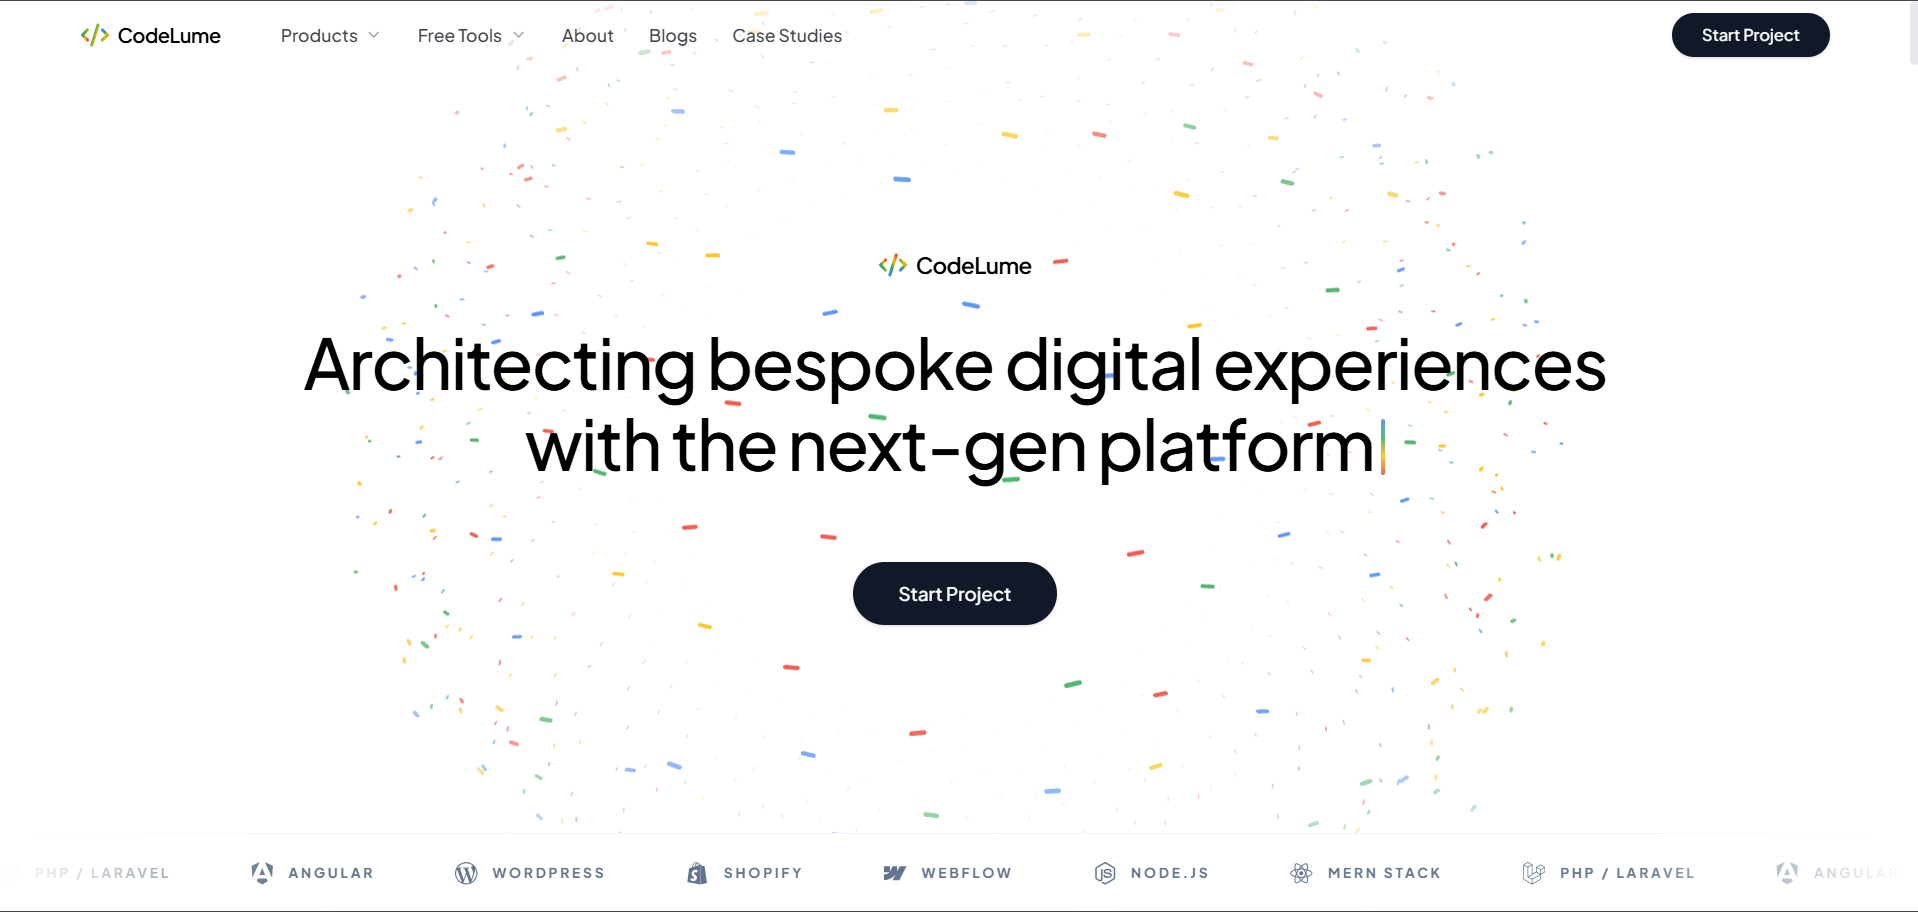
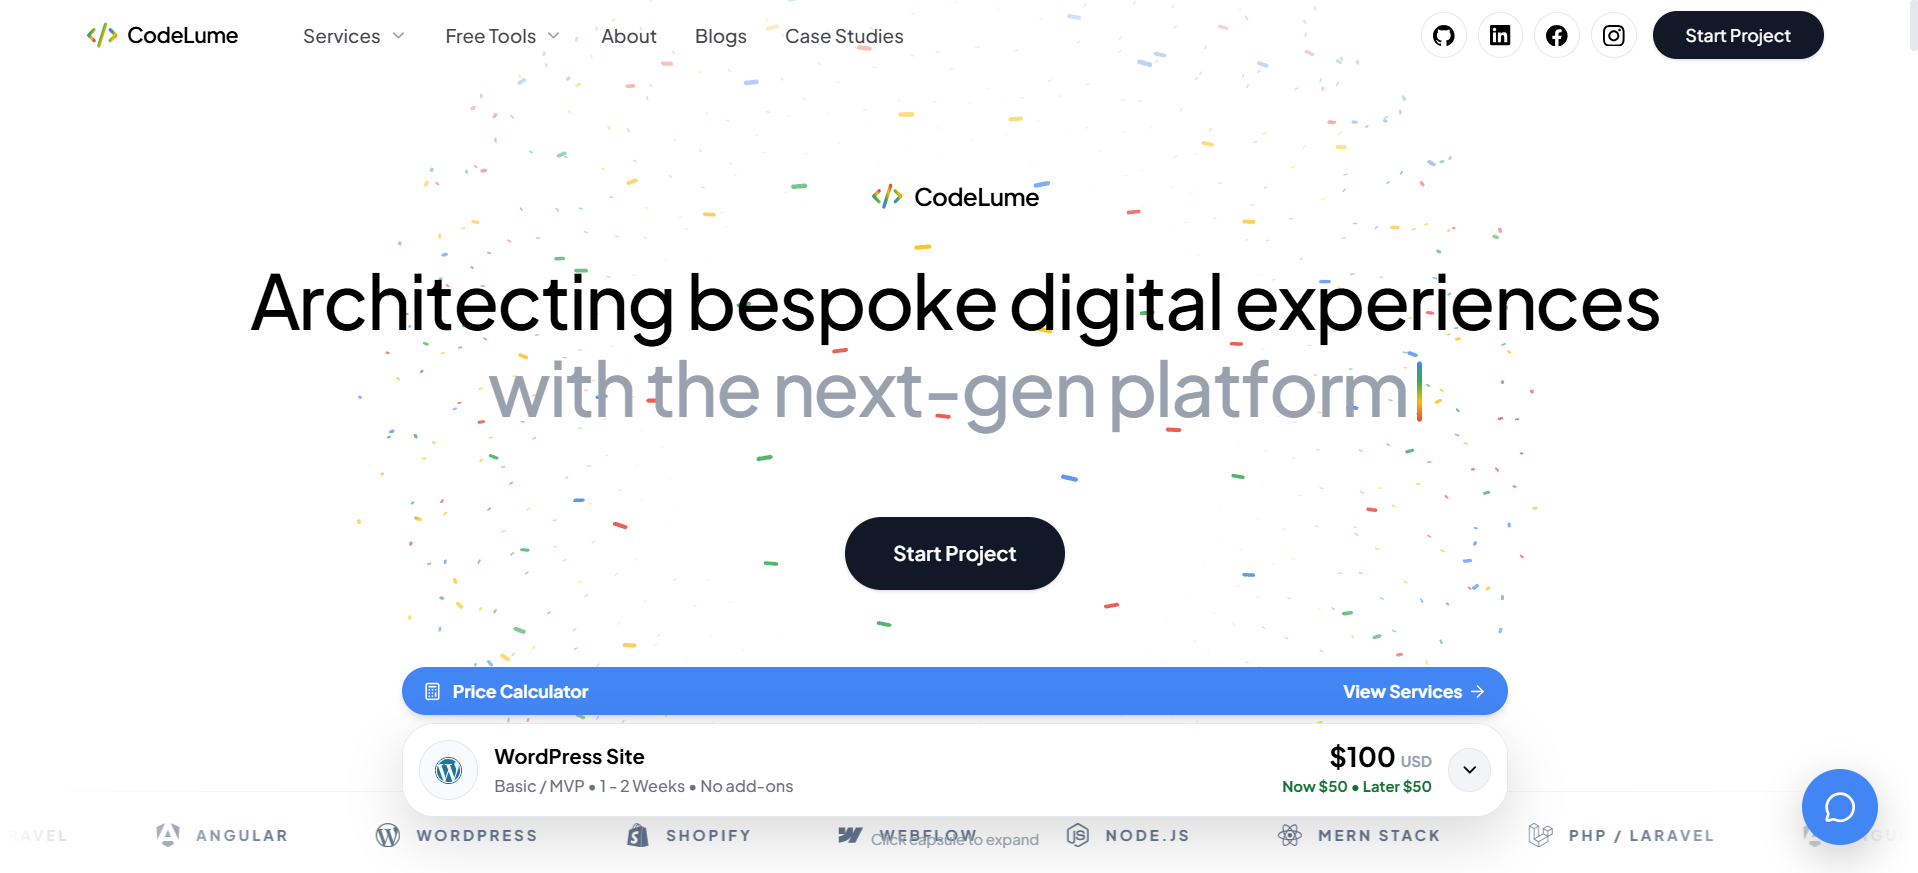
done

diff --git a/README.md b/README.md
@@ -1,6 +1,6 @@
 ## CodeLume® | Bespoke Web Engineering & Digital Hub
 
-![CodeLume Preview](/codelume-next/public/preview.png)
+![CodeLume Preview](/codelume-frontend/public/preview.png)
 
 CodeLume is the official digital flagship and engineering hub of independent Full-Stack Architect and UI/UX Designer **Rafay**. Engineered with Next.js (App Router) and Tailwind CSS, the platform showcases bespoke web applications, interactive client tools, and a custom "Antigravity White Enterprise" design system built for maximum conversion and speed.
 
